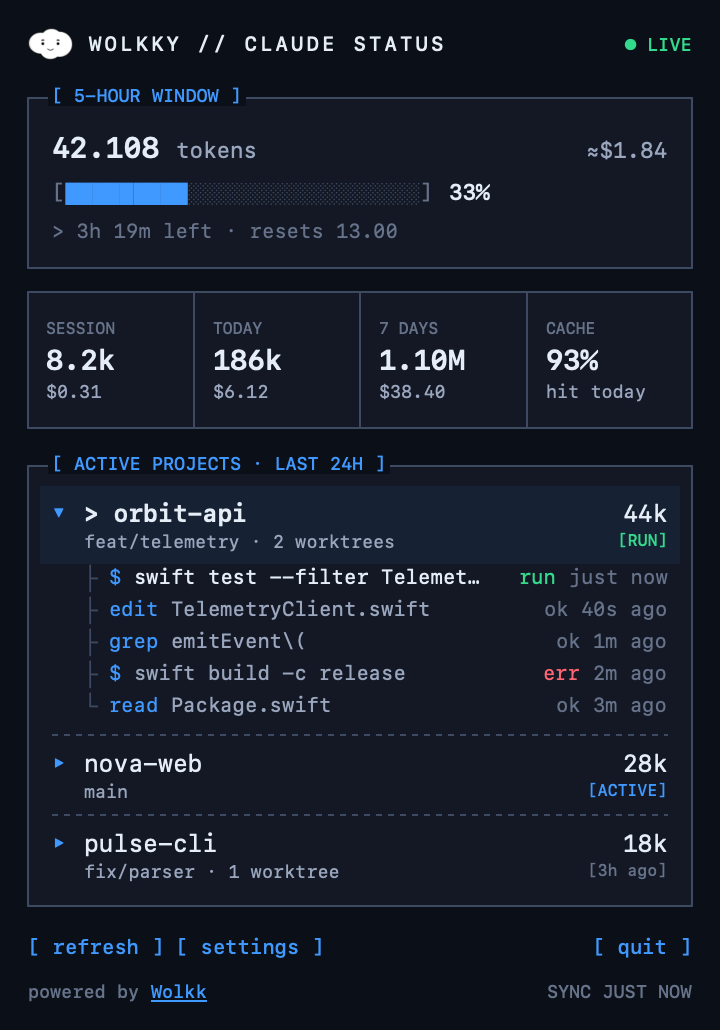
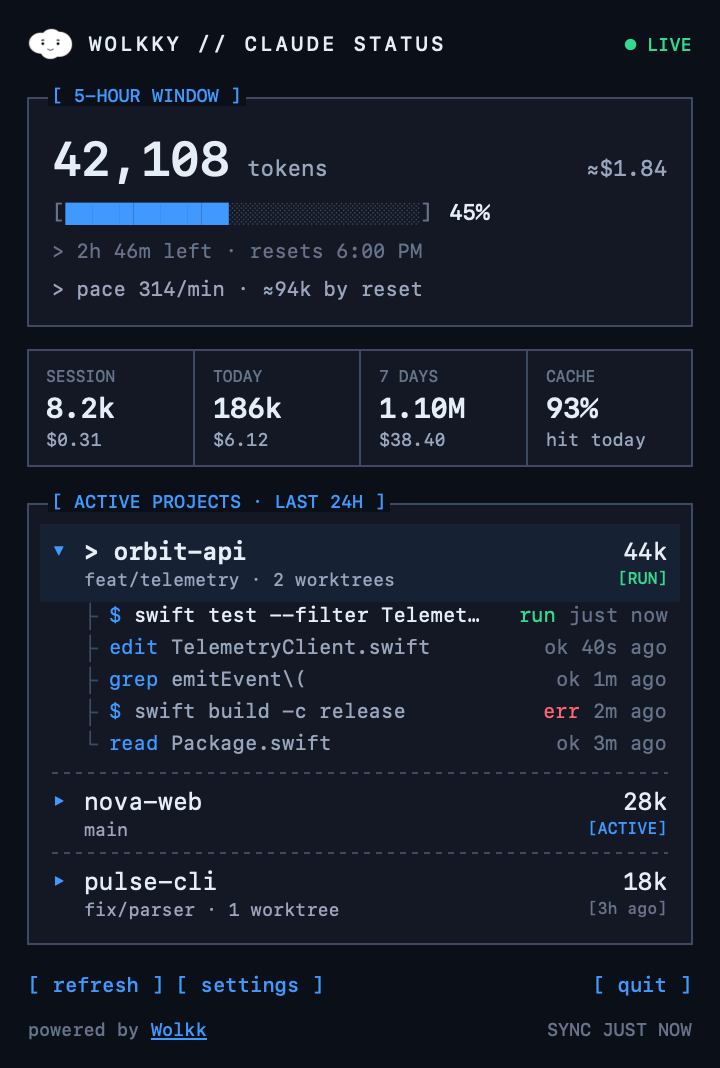
docs: drop Vibe Coding Support, refresh panel screenshots
Remove the Vibe Coding Support service from the README and the
Wolkk Settings tab (plus its unused translations). Re-render the
light and dark panel screenshots from the current build with demo
data and US English formatting.

diff --git a/Sources/ClaudeStatus/Strings.swift b/Sources/ClaudeStatus/Strings.swift
@@ -198,7 +198,6 @@ enum Strings {
         "Wolkk connects companies with senior software developers from Indonesia.": ("Wolkk verbindet Unternehmen mit erfahrenen Softwareentwicklern aus Indonesien.", "Wolkk は、企業とインドネシアのシニアソフトウェア開発者をつなぎます。"),
         "Founded 2022 · 50+ developers · clients in Europe, North America and Australia.": ("Gegründet 2022 · 50+ Entwickler · Kunden in Europa, Nordamerika und Australien.", "2022年設立 · 開発者50名以上 · ヨーロッパ、北米、オーストラリアのお客様。"),
         "What Wolkk can do": ("Was Wolkk für dich tun kann", "Wolkk にできること"),
-        "Fix your AI-generated code: bug fixing, cleanup, production-ready software.": ("Repariert deinen KI-generierten Code: Fehlerbehebung, Aufräumen, produktionsreife Software.", "AI が生成したコードを修正：バグ修正、整理、本番運用できるソフトウェアへ。"),
         "Senior developers who work only on your product. Ready within 4 weeks.": ("Erfahrene Entwickler, die nur an deinem Produkt arbeiten. Startklar in 4 Wochen.", "あなたの製品だけに取り組むシニア開発者。4週間以内に参加可能。"),
         "Wolkk developers alongside your in-house team, with a 24/7 development cycle.": ("Wolkk-Entwickler an der Seite deines internen Teams, mit einem 24/7-Entwicklungszyklus.", "社内チームと Wolkk の開発者が協働し、24時間体制の開発サイクルを実現。"),
         "Scrum masters, product owners and developers. Sprint-based delivery and rapid prototyping.": ("Scrum Master, Product Owner und Entwickler. Lieferung in Sprints und schnelles Prototyping.", "スクラムマスター、プロダクトオーナー、開発者。スプリント単位の開発とラピッドプロトタイピング。"),

diff --git a/Sources/ClaudeStatus/SettingsView.swift b/Sources/ClaudeStatus/SettingsView.swift
@@ -205,7 +205,6 @@ private struct AboutSettings: View {
 /// What Wolkk is and what it can do, from wolkk.com.
 struct WolkkSettings: View {
     private let services: [(name: String, text: String)] = [
-        ("Vibe Coding Support", "Fix your AI-generated code: bug fixing, cleanup, production-ready software."),
         ("Dedicated Teams", "Senior developers who work only on your product. Ready within 4 weeks."),
         ("Hybrid Teams", "Wolkk developers alongside your in-house team, with a 24/7 development cycle."),
         ("Agile Development", "Scrum masters, product owners and developers. Sprint-based delivery and rapid prototyping."),

diff --git a/README.md b/README.md
@@ -21,8 +21,8 @@
 
 Lives in your menu bar as Wolkky — no text, no wasted space. Hover for a quick summary, click for the panel.
 
-> **Built something with Claude that now has to ship?**
-> [Wolkk](https://wolkk.com/?utm_source=github&utm_medium=readme&utm_campaign=wolkky-claude-status) turns AI-coded prototypes into production-ready software, and gives your team senior developers from Indonesia when you need more hands. [See how Wolkk works →](#about-wolkk)
+> **Need more hands on your product?**
+> [Wolkk](https://wolkk.com/?utm_source=github&utm_medium=readme&utm_campaign=wolkky-claude-status) gives your team senior developers from Indonesia, as a dedicated team or alongside your in-house developers. [See how Wolkk works →](#about-wolkk)
 
 ## Features
 
@@ -93,7 +93,7 @@ Click **Wolkky** in the menu bar to open the panel; hover for a one-line summary
 | General | Dark mode, language, notifications, counting cache reads, a 5-hour token budget, refresh rate, open at login, rerun setup |
 | Privacy | What the app reads and never does, and a shortcut to the logs folder |
 | About | Version, Wolkky, Wolkk website and source code |
-| Wolkk | What Wolkk is and what it can do for you: Vibe Coding Support, dedicated and hybrid teams, agile development, with links to contact Wolkk |
+| Wolkk | What Wolkk is and what it can do for you: dedicated and hybrid teams, agile development, with links to contact Wolkk |
 
 ### Active projects
 
@@ -191,7 +191,6 @@ If you build with Claude Code, here's where Wolkk can help:
 
 | | |
 | --- | --- |
-| **Vibe Coding Support** | Your AI-coded prototype works on a good day? Wolkk fixes what's broken and turns it into production-ready software. |
 | **Dedicated teams** | Full-time senior developers who work only on your product, with your tools and your processes. |
 | **Hybrid teams** | Wolkk developers alongside your in-house team, scaling up or down as you need, with knowledge transfer built in. |
 | **Agile delivery** | Sprint-based development with continuous iteration. |
